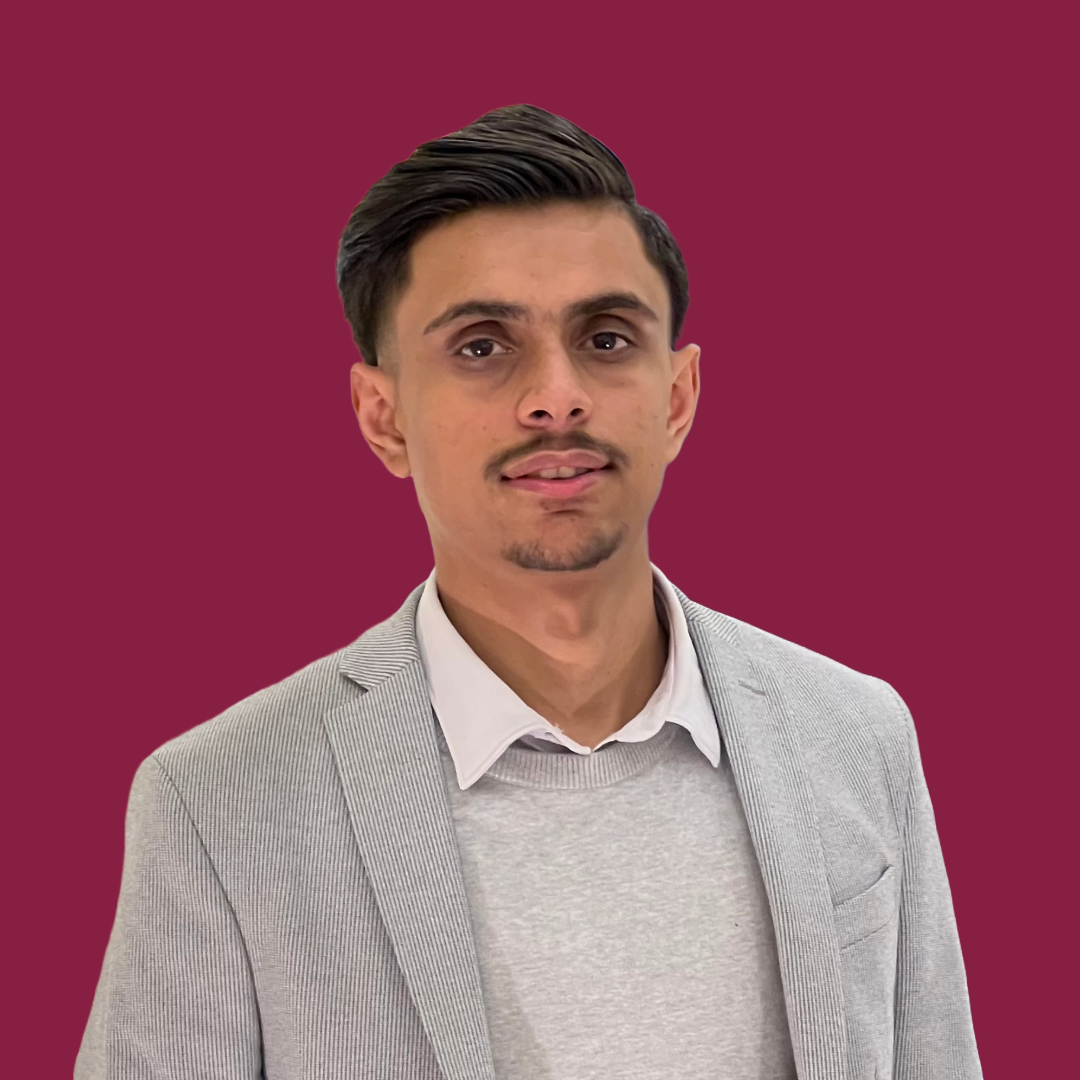
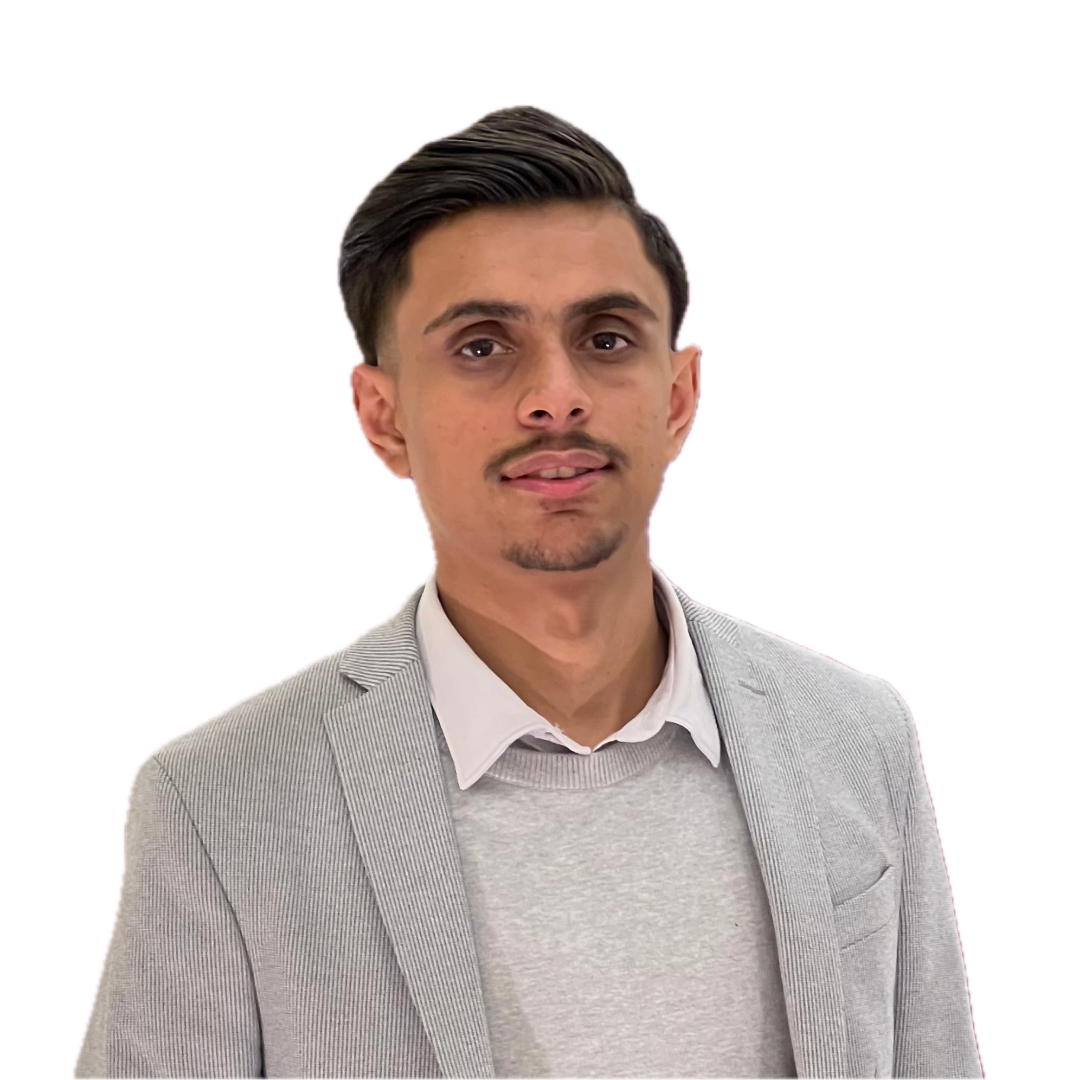
pp chaned with clean bg and text edit

diff --git a/nabin-portfolio/src/App.jsx b/nabin-portfolio/src/App.jsx
@@ -53,7 +53,7 @@ function NavBar() {
           Nabin Adhikari
         </span>
         <span className="text-sm text-slate-500">
-          Blacksburg, VA · United States
+          Blacksburg, VA
         </span>
       </div>
     </nav>
@@ -145,7 +145,7 @@ function Hero() {
               rel="noopener noreferrer"
               className="px-6 py-2 rounded-lg bg-green-600 text-white font-semibold hover:bg-green-700"
             >
-              View CV
+              Resume
             </a>
           </div>
         </div>
@@ -407,9 +407,44 @@ function Project({ title, link, children }) {
       whileHover={{ scale: 1.02 }}
       href={link}
       target="_blank"
-      className="block bg-white p-6 rounded-xl shadow-sm"
+      rel="noopener noreferrer"
+      className="relative block bg-white p-6 rounded-xl shadow-sm"
     >
-      <h3 className="font-semibold text-xl mb-2 text-slate-900">
+      {/* GitHub Icon */}
+      <span
+        className="absolute top-5 right-5 text-slate-500 hover:text-slate-900"
+        aria-label="GitHub Repository"
+      >
+        <svg
+          className="w-5 h-5"
+          fill="currentColor"
+          viewBox="0 0 24 24"
+        >
+          <path
+            fillRule="evenodd"
+            clipRule="evenodd"
+            d="M12 0C5.372 0 0 5.373 0 12c0 5.303 3.438 9.8 8.205 11.387.6.111.82-.261.82-.58
+            0-.287-.011-1.244-.016-2.253-3.338.724-4.042-1.61-4.042-1.61-.546-1.387-1.333-1.756-1.333-1.756
+            -1.089-.745.083-.729.083-.729 1.205.085 1.84 1.238 1.84 1.238
+            1.07 1.835 2.807 1.305 3.492.998.108-.775.418-1.305.76-1.605
+            -2.665-.304-5.467-1.334-5.467-5.933 0-1.31.468-2.381 1.235-3.222
+            -.124-.303-.535-1.523.117-3.176 0 0 1.008-.323 3.3 1.23
+            a11.51 11.51 0 013.003-.404c1.018.004 2.043.138 3.003.404
+            2.29-1.553 3.296-1.23 3.296-1.23
+            .655 1.653.244 2.873.12 3.176
+            .77.841 1.234 1.912 1.234 3.222
+            0 4.61-2.807 5.625-5.479 5.922
+            .43.371.814 1.102.814 2.222
+            0 1.605-.014 2.898-.014 3.293
+            0 .321.218.696.825.578
+            C20.565 21.796 24 17.303 24 12
+            c0-6.627-5.373-12-12-12z"
+          />
+        </svg>
+      </span>
+
+      {/* EXISTING CONTENT — UNCHANGED */}
+      <h3 className="font-semibold text-xl mb-2 text-slate-900 pr-8">
         {title}
       </h3>
       <p className="text-slate-600">{children}</p>
@@ -417,14 +452,15 @@ function Project({ title, link, children }) {
   );
 }
 
+
+
 /* =========================
    FOOTER
 ========================= */
 function Footer() {
   return (
     <footer className="text-center text-slate-500 py-12">
-      © 2026 Nabin Adhikari · Machine Learning Engineer · Built for
-      real-world impact
+      © 2026 Nabin Adhikari · Machine Learning Engineer
     </footer>
   );
 }
